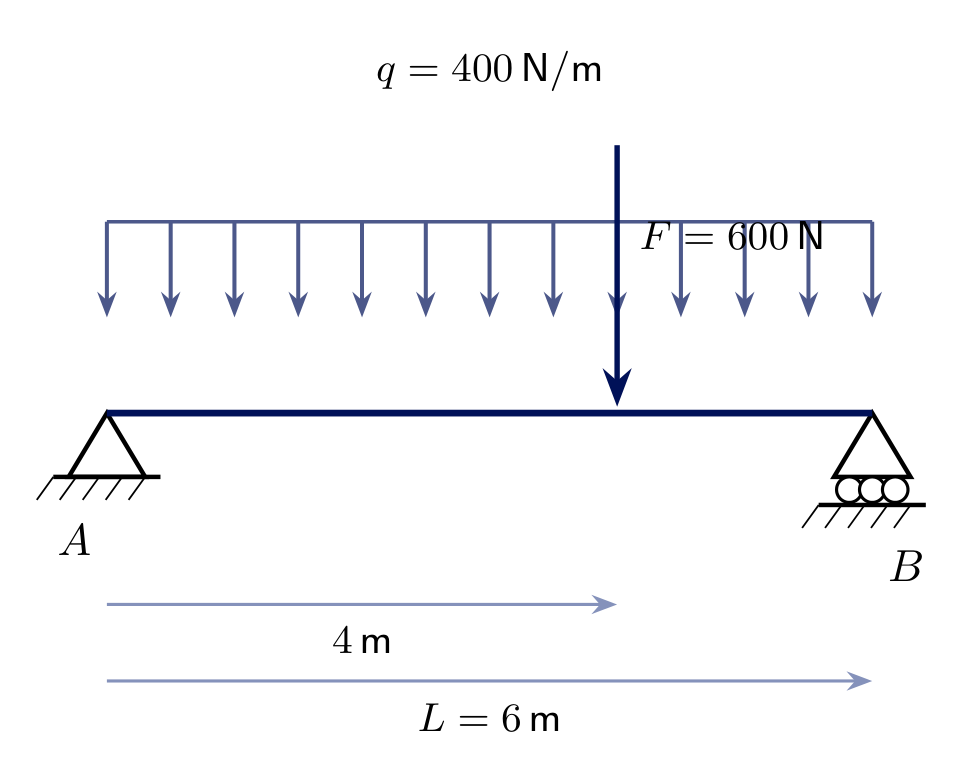
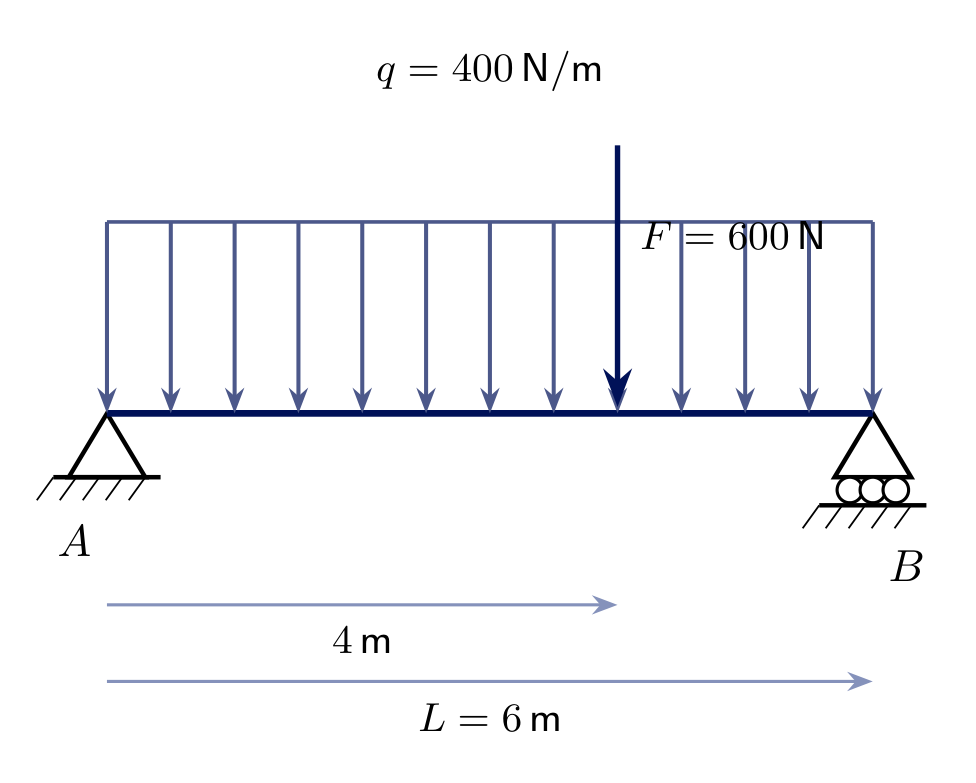
mechanics update

diff --git a/Engineering_Mechanics/e_04/assets/em_s04_figs.tex b/Engineering_Mechanics/e_04/assets/em_s04_figs.tex
@@ -45,6 +45,26 @@
     \draw[qload] (\qx,#3) -- (\qx,#3-#4);
   }
 }
+% general (non-uniform) distributed load: hump-shaped arrows over [#1,#2], max length #4, BEAM at y=#3 (every arrow lands here)
+\newcommand{\qarrowsvar}[4]{
+  \pgfmathsetmacro{\qn}{int(floor((#2-#1)/0.4))}
+  \foreach \i in {0,...,\qn} {
+    \pgfmathsetmacro{\qx}{(#1)+\i*0.4}
+    \pgfmathsetmacro{\qlen}{(#4)*sin(180*((\qx-(#1))/((#2)-(#1))))}
+    \draw[qload] (\qx,#3+\qlen) -- (\qx,#3);
+  }
+  \draw[mainblue!70, line width=0.8pt, smooth] plot[domain=#1:#2, samples=40] (\x,{(#3)+(#4)*sin(180*((\x-(#1))/((#2)-(#1))))});
+}
+% triangular distributed load: 0 at x=#1 rising linearly to max #4 at x=#2, BEAM at y=#3 (every arrow lands here)
+\newcommand{\qarrowstri}[4]{
+  \pgfmathsetmacro{\qn}{int(floor((#2-#1)/0.4))}
+  \foreach \i in {1,...,\qn} {
+    \pgfmathsetmacro{\qx}{(#1)+\i*0.4}
+    \pgfmathsetmacro{\qlen}{(#4)*((\qx-(#1))/((#2)-(#1)))}
+    \draw[qload] (\qx,#3+\qlen) -- (\qx,#3);
+  }
+  \draw[mainblue!70, line width=0.8pt] (#1,#3) -- (#2,#3+#4);
+}
 
 \begin{document}
 
@@ -76,8 +96,8 @@
 \node[below right] at (8,-0.15) {$B$};
 \draw[force] (0,-1.1) -- (0,-0.05);
 \node[below] at (0,-1.15) {\small $A_y$};
-\draw[force] (-1.4,1.2) -- (-0.05,1.2);
-\node[left] at (-1.45,1.2) {\small $A_x$};
+\draw[force] (-1.4,0) -- (-0.05,0);
+\node[left] at (-1.45,0) {\small $A_x$};
 \draw[force] (8,-1.1) -- (8,-0.05);
 \node[below] at (8,-1.15) {\small $B_y$};
 \draw[force] (3,1.9) -- (3,0.05);
@@ -108,10 +128,10 @@
 \node[below] at (4,-0.05) {$B$};
 \draw[force] (0,-1.1) -- (0,-0.05);
 \node[below] at (0,-1.15) {\small $A_y$};
-\draw[force] (-1.4,1.2) -- (-0.05,1.2);
-\node[left] at (-1.45,1.2) {\small $A_x$};
-\draw[moment, -{Stealth[length=2.5mm]}] (0.314,0.508) arc (100:280:0.35);
-\node[right] at (0.5,0.15) {\small $M_A$};
+\draw[force] (-1.4,0) -- (-0.05,0);
+\node[left] at (-1.45,0) {\small $A_x$};
+\draw[moment, -{Stealth[length=2.5mm]}] (0.423,0.154) arc (20:160:0.45);
+\node[above] at (0,0.5) {\small $M_A$};
 \draw[force] (4,1.5) -- (4,0.05);
 \node[above] at (4,1.55) {\small $F$};
 \draw[moment, {Stealth[length=2.5mm]}-] (4.75,0.75) arc (20:290:0.55);
@@ -125,7 +145,7 @@
 \draw[line width=1.5pt, mainblue] (0,0) -- (6,0);
 \node[below left] at (0,-0.75) {$A$};
 \node[below right] at (6,-0.95) {$B$};
-\qarrows{0}{6}{1.5}{0.75}
+\qarrows{0}{6}{1.5}{1.5}
 \node[above] at (3,2.4) {\small $q=400\,\text{N/m}$};
 \draw[force] (4,2.1) -- (4,0.05);
 \node[right] at (4.05,1.4) {\small $F=600\,\text{N}$};
@@ -144,8 +164,8 @@
 \node[below right] at (6,-0.15) {$B$};
 \draw[force] (0,-1.1) -- (0,-0.05);
 \node[below] at (0,-1.15) {\small $A_y$};
-\draw[force] (-1.4,1.2) -- (-0.05,1.2);
-\node[left] at (-1.45,1.2) {\small $A_x$};
+\draw[force] (-1.4,0) -- (-0.05,0);
+\node[left] at (-1.45,0) {\small $A_x$};
 \draw[force] (6,-1.1) -- (6,-0.05);
 \node[below] at (6,-1.15) {\small $B_y$};
 \draw[force] (3,2.1) -- (3,0.05);
@@ -168,8 +188,8 @@
 \draw[line width=1pt] (5.5,-1.6) -- (6.3,-1.6);
 \foreach \x in {5.5,5.7,...,6.3} {\draw[line width=0.4pt] (\x,-1.6) -- (\x-0.13,-1.78);}
 \draw[dim] (5,-0.5) arc (270:310:0.5);
-\node[right] at (5.15,-0.75) {\small $40^\circ$};
-\qarrows{1}{4}{1.5}{0.75}
+\node[right] at (4.8,-0.75) {\small $40^\circ$};
+\qarrows{1}{4}{1.5}{1.5}
 \node[above] at (2.5,2.4) {\small $q=300\,\text{N/m}$};
 \draw[dim] (0,-2.6) -- (1,-2.6);
 \node[below] at (0.5,-2.65) {\small $1\,\text{m}$};
@@ -188,16 +208,91 @@
 \node[below right] at (5,-0.15) {$B$};
 \draw[force] (0,-1.1) -- (0,-0.05);
 \node[below] at (0,-1.15) {\small $A_y$};
-\draw[force] (-1.4,1.2) -- (-0.05,1.2);
-\node[left] at (-1.45,1.2) {\small $A_x$};
+\draw[force] (-1.4,0) -- (-0.05,0);
+\node[left] at (-1.45,0) {\small $A_x$};
 \draw[dim] (5,-0.5) arc (270:310:0.5);
-\node[right] at (5.15,-0.75) {\small $40^\circ$};
+\node[right] at (4.8,-0.75) {\small $40^\circ$};
 \draw[force] ($(5,0)+(-50:1.6)$) -- (5,0);
 \node[right] at ($(5,0)+(-50:1.7)$) {\small $S$};
 \draw[force] (2.5,2.1) -- (2.5,0.05);
 \node[left] at (2.45,1.4) {\small $R=qb=900\,\text{N}$};
 \draw[dim, dashed] (2.5,0) -- (2.5,-0.75);
 \node[below] at (2.5,-0.8) {\small $2.5\,\text{m}$};
+\end{tikzpicture}
+
+% ================= Theory: general distributed load =================
+\begin{tikzpicture}
+\draw[line width=1.5pt, mainblue] (0,0) -- (5,0);
+\node[below left] at (0,-0.1) {$A$};
+\node[below right] at (5,-0.1) {$B$};
+\qarrowsvar{0}{5}{0}{1.6}
+\node[above] at (2.5,2.0) {\small $q(x)\ [\text{N/m}]$};
+\draw[dim] (0,-0.6) -- (5,-0.6);
+\node[below] at (2.5,-0.65) {\small $\ell$};
+\end{tikzpicture}
+
+% ================= Theory: uniform distributed load + resultant =================
+\begin{tikzpicture}
+\draw[line width=1.5pt, mainblue] (0,1.6) -- (5,1.6);
+\node[below left] at (0,1.5) {$A$};
+\node[below right] at (5,1.5) {$B$};
+\qarrows{0}{5}{2.9}{1.3}
+\node[above] at (2.5,3.35) {\small $q_0=\text{const.}$};
+\draw[line width=1.5pt, mainblue] (0,-0.6) -- (5,-0.6);
+\node[below left] at (0,-0.7) {$A$};
+\node[below right] at (5,-0.7) {$B$};
+\draw[force] (2.5,0.3) -- (2.5,-0.55);
+\node[right] at (2.6,-0.1) {\small $R=q_0\cdot\ell$};
+\draw[dim, dashed] (2.5,-0.6) -- (2.5,-1.1);
+\node[below] at (2.5,-1.15) {\small $\ell/2$};
+\end{tikzpicture}
+
+% ================= Theory: triangular distributed load + resultant =================
+\begin{tikzpicture}
+\draw[line width=1.5pt, mainblue] (0,1.6) -- (5,1.6);
+\node[below left] at (0,1.5) {$A$};
+\node[below right] at (5,1.5) {$B$};
+\qarrowstri{0}{5}{1.6}{1.8}
+\node[above] at (3.7,3.45) {\small $q_0$};
+\draw[line width=1.5pt, mainblue] (0,-0.6) -- (5,-0.6);
+\node[below left] at (0,-0.7) {$A$};
+\node[below right] at (5,-0.7) {$B$};
+\draw[force] (3.33,0.3) -- (3.33,-0.55);
+\node[right] at (3.43,-0.1) {\small $R=\tfrac{1}{2}q_0\cdot\ell$};
+\draw[dim, dashed] (3.33,-0.6) -- (3.33,-1.1);
+\node[below] at (3.33,-1.15) {\small $2\ell/3$};
+\end{tikzpicture}
+
+% ================= Ex 4.5 problem: beam, pin+roller, triangular load =================
+\begin{tikzpicture}
+\festlager{(0,0)}
+\loslager{(6,0)}
+\draw[line width=1.5pt, mainblue] (0,0) -- (6,0);
+\node[below left] at (0,-0.75) {$A$};
+\node[below right] at (6,-0.95) {$B$};
+\qarrowstri{0}{6}{0}{2.7}
+\node[above] at (5.3,2.85) {\small $q_0=600\,\text{N/m}$};
+\draw[dim] (0,-1.5) -- (6,-1.5);
+\node[below] at (3,-1.55) {\small $L=6\,\text{m}$};
+\end{tikzpicture}
+
+% ================= Ex 4.5 FBD (Free Body Diagram) - q replaced by resultant R =================
+\begin{tikzpicture}
+\fill[mainblue] (0,0) circle (2.2pt);
+\fill[mainblue] (6,0) circle (2.2pt);
+\draw[line width=1.5pt, mainblue] (0,0) -- (6,0);
+\node[below left] at (0,-0.15) {$A$};
+\node[below right] at (6,-0.15) {$B$};
+\draw[force] (0,-1.1) -- (0,-0.05);
+\node[below] at (0,-1.15) {\small $A_y$};
+\draw[force] (-1.4,0) -- (-0.05,0);
+\node[left] at (-1.45,0) {\small $A_x$};
+\draw[force] (6,-1.1) -- (6,-0.05);
+\node[below] at (6,-1.15) {\small $B_y$};
+\draw[force] (4,2.1) -- (4,0.05);
+\node[left] at (3.95,1.4) {\small $R=\tfrac12 q_0 L=1800\,\text{N}$};
+\draw[dim, dashed] (4,0) -- (4,-0.55);
+\node[below] at (4,-0.6) {\small $4\,\text{m}$};
 \end{tikzpicture}
 
 \end{document}

diff --git a/Engineering_Mechanics/e_04/index.md b/Engineering_Mechanics/e_04/index.md
@@ -21,9 +21,9 @@ Hochschule Magdeburg-Stendal
 
 ## Overview
 
-- No new theory today - we **practice** the free-body method from Seminar 3 on four more problems
-- Every solution is built the same way: isolate the body, draw the **Schnittbild** (free-body diagram) with all reactions, then apply $\sum F_x=0$, $\sum F_y=0$, $\sum M=0$
-- One new *tool*, not a new *concept*: replacing a **distributed load** by its equivalent resultant before applying equilibrium
+- First the **theory**: distributed loads - general case, uniform, and triangular
+- Then the **practice**: the free-body method from Seminar 3, applied to five problems
+- Every solution is built the same way: isolate the body, draw the **free-body diagram** with all reactions, then apply $\sum F_x=0$, $\sum F_y=0$, $\sum M=0$
 
 ---
 
@@ -32,6 +32,50 @@ Hochschule Magdeburg-Stendal
 - Every support restrains some motion - each restrained motion is **one unknown reaction** (Loslager 1, Festlager 2, Einspannung 3, Führung 2, Pendelstütze 1)
 - **Free-body diagram:** isolate the body, replace every support by its reaction(s), add all known loads, then solve
 - All problems here are statically determinate: exactly 3 unknowns, solved with $\sum F_x=0$, $\sum F_y=0$, $\sum M=0$
+
+---
+
+## Theory: Distributed loads - the general case
+
+- So far every load was a single **point force** acting at one location
+- A **distributed load** $q(x)$ acts continuously along a length - its intensity is force **per unit length**, $[\text{N/m}]$, and may vary arbitrarily
+- It is drawn as arrows **sitting on the loaded member** - the load acts *on* the beam, never floating above it
+
+![bg right fit](./assets/em_s04_theory_general.png)
+
+---
+
+## Theory: Uniform distributed load
+
+The simplest and most common case: $q(x)=q_0=\text{const.}$
+
+$$R = q_0\cdot\ell \quad\text{acting at the \textbf{midpoint}}\ \ell/2$$
+
+Because the load is constant, its resultant is simply "intensity times length," acting through the centroid of a rectangle - the midpoint.
+
+![bg right fit](./assets/em_s04_theory_uniform.png)
+
+---
+
+## Theory: Triangular distributed load
+
+A **linearly varying** load, zero at one end and $q_0$ at the other. Its resultant equals the **area of the triangle**:
+
+$$R = \tfrac{1}{2}q_0\cdot\ell \quad\text{acting at}\ \tfrac{2}{3}\ell\ \text{from the zero end}$$
+
+The resultant sits closer to the **tall** end, since more of the load is concentrated there.
+
+![bg right fit](./assets/em_s04_theory_triangular.png)
+
+---
+
+## Theory: Partial loads - a caveat
+
+- The original distributed load is only replaced **after** the free body has been isolated - never on the original drawing
+- If $q$ acts only over **part** of the member, use only the **loaded length** $b$: $R=q\cdot b$ (uniform) or $R=\tfrac12 q_0 b$ (triangular)
+- $R$ acts at the centroid of the **loaded segment**, *not* the midpoint of the whole member (see Exercise 4.4)
+
+![bg right fit](./assets/em_s04_ex4_beam_partial_udl.png)
 
 ---
 
@@ -46,7 +90,7 @@ Beam $AB$ ($8\ \text{m}$): **pin support** at $A$, **roller support** at $B$. Tw
 
 ---
 
-## Solution 4.1 - Schnittbild
+## Solution 4.1 - Free Body Diagram
 
 Free-body diagram: $A_x$, $A_y$ at $A$; $B_y$ at $B$; $F_1$, $F_2$ downward at $3\ \text{m}$ and $6\ \text{m}$.
 
@@ -59,39 +103,6 @@ $$\sum F_x = A_x = 0 \ \Rightarrow\ \boxed{A_x=0}$$
 ---
 
 # Exercise 4.2
-## Cantilever with force and applied couple
-
-Cantilever $AB$ ($L=2\ \text{m}$), **fixed support** at $A$. At the free end $B$: a downward force $F=800\ \text{N}$ **and** an applied couple $M_0=400\ \text{N}\!\cdot\!\text{m}$ (counterclockwise).
-
-**Find** $A_x$, $A_y$, $M_A$.
-
-![bg right fit](./assets/em_s04_ex2_cantilever_moment.png)
-
----
-
-## Solution 4.2 - Schnittbild
-
-An **applied couple** enters the moment equation directly - with no lever arm, since it already is a pure moment.
-
-![bg right fit](./assets/em_s04_ex2_fbd.png)
-
-$$\sum F_x = A_x = 0 \ \Rightarrow\ \boxed{A_x=0}$$
-$$\sum F_y = A_y - F = 0 \ \Rightarrow\ \boxed{A_y = 800\ \text{N}}$$
-$$\sum M_A = M_A + M_0 - F\cdot L = 0 \ \Rightarrow\ M_A = 800\cdot2-400=\boxed{1200\ \text{N}\!\cdot\!\text{m}}$$
-
----
-
-## Tool: distributed load → equivalent resultant
-
-A distributed load $q$ (force per unit length) acting over a length $\ell$ is, for **equilibrium purposes only**, equivalent to a single resultant force
-
-$$R = q\cdot\ell \quad\text{acting through the centroid of the loaded area}$$
-
-For a **uniform** (rectangular) load this centroid is simply the **midpoint** of the loaded length. The original distributed load is only replaced *after* the free body has been isolated - never on the original structural drawing.
-
----
-
-# Exercise 4.3
 ## Beam with full uniform load and point load
 
 Beam $AB$ ($L=6\ \text{m}$): **pin** at $A$, **roller** at $B$. A uniform load $q=400\ \text{N/m}$ acts over the full span, plus a point load $F=600\ \text{N}$ at $4\ \text{m}$ from $A$.
@@ -102,7 +113,7 @@ Beam $AB$ ($L=6\ \text{m}$): **pin** at $A$, **roller** at $B$. A uniform load $
 
 ---
 
-## Solution 4.3 - Schnittbild
+## Solution 4.2 - Free Body Diagram
 
 Replace $q$ by its resultant $R=q\cdot L = 400\cdot6=2400\ \text{N}$, acting at the midpoint, $3\ \text{m}$ from $A$. $F$ is already a point load and stays as is.
 
@@ -110,6 +121,29 @@ Replace $q$ by its resultant $R=q\cdot L = 400\cdot6=2400\ \text{N}$, acting at 
 
 $$\sum M_A = B_y\cdot6 - R\cdot3 - F\cdot4=0 \ \Rightarrow\ B_y=\frac{7200+2400}{6}=\boxed{1600\ \text{N}}$$
 $$\sum F_y = A_y+B_y-R-F=0 \ \Rightarrow\ \boxed{A_y=1400\ \text{N}} \qquad \boxed{A_x=0}$$
+
+---
+
+# Exercise 4.3
+## Cantilever with force and applied couple
+
+Cantilever $AB$ ($L=2\ \text{m}$), **fixed support** at $A$. At the free end $B$: a downward force $F=800\ \text{N}$ **and** an applied couple $M_0=400\ \text{N}\!\cdot\!\text{m}$ (counterclockwise).
+
+**Find** $A_x$, $A_y$, $M_A$.
+
+![bg right fit](./assets/em_s04_ex2_cantilever_moment.png)
+
+---
+
+## Solution 4.3 - Free Body Diagram
+
+An **applied couple** enters the moment equation directly - with no lever arm, since it already is a pure moment.
+
+![bg right fit](./assets/em_s04_ex2_fbd.png)
+
+$$\sum F_x = A_x = 0 \ \Rightarrow\ \boxed{A_x=0}$$
+$$\sum F_y = A_y - F = 0 \ \Rightarrow\ \boxed{A_y = 800\ \text{N}}$$
+$$\sum M_A = M_A + M_0 - F\cdot L = 0 \ \Rightarrow\ M_A = 800\cdot2-400=\boxed{1200\ \text{N}\!\cdot\!\text{m}}$$
 
 ---
 
@@ -124,7 +158,7 @@ Beam $AB$ ($L=5\ \text{m}$): **pin** at $A$, **link support** (Pendelstütze) at
 
 ---
 
-## Solution 4.4 - Schnittbild
+## Solution 4.4 - Free Body Diagram
 
 The resultant of the **loaded segment only** is $R=q\cdot b = 300\cdot3=900\ \text{N}$, acting at its midpoint: $1+\tfrac{3}{2}=2.5\ \text{m}$ from $A$ - **not** at the midpoint of the whole beam.
 
@@ -133,6 +167,28 @@ The resultant of the **loaded segment only** is $R=q\cdot b = 300\cdot3=900\ \te
 $$\sum M_A = S\sin40^\circ\cdot5 - R\cdot2.5=0 \ \Rightarrow\ S=\frac{900\cdot2.5}{5\sin40^\circ}\approx\boxed{700.0\ \text{N}}$$
 $$\sum F_y = A_y+S\sin40^\circ-R=0 \ \Rightarrow\ \boxed{A_y = 900-450=450\ \text{N}}$$
 $$\sum F_x = A_x+S\cos40^\circ=0 \ \Rightarrow\ \boxed{A_x\approx-536.2\ \text{N}}$$
+
+---
+
+# Exercise 4.5
+## Beam with triangular load
+
+Beam $AB$ ($L=6\ \text{m}$): **pin** at $A$, **roller** at $B$. A triangular load acts over the full span: zero at $A$, rising to $q_0=600\ \text{N/m}$ at $B$.
+
+**Find** $A_x$, $A_y$, $B_y$.
+
+![bg right fit](./assets/em_s04_ex5_triangular_beam.png)
+
+---
+
+## Solution 4.5 - Free Body Diagram
+
+Replace the triangular load by its resultant $R=\tfrac12 q_0 L = \tfrac12\cdot600\cdot6=1800\ \text{N}$, acting at $\tfrac{2}{3}L=4\ \text{m}$ from $A$ (closer to the tall end at $B$).
+
+![bg right fit](./assets/em_s04_ex5_triangular_fbd.png)
+
+$$\sum M_A = B_y\cdot6 - R\cdot4=0 \ \Rightarrow\ B_y=\frac{1800\cdot4}{6}=\boxed{1200\ \text{N}}$$
+$$\sum F_y = A_y+B_y-R=0 \ \Rightarrow\ \boxed{A_y=600\ \text{N}} \qquad \boxed{A_x=0}$$
 
 ---
 
